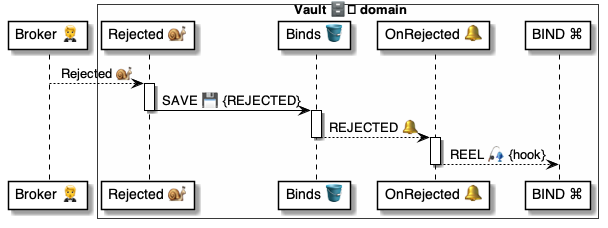
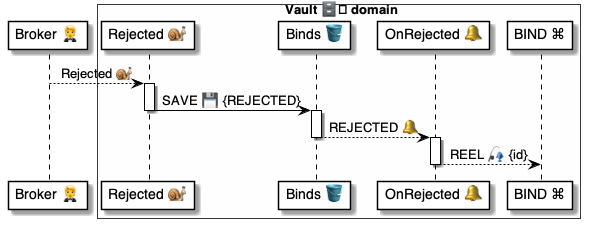
.

diff --git a/4 ⚙ Solution/37 Scripts 📃/📃 Commands ⌘/⌘ for methods 🤵/BIND 🔗/🔗 BIND 📃 script.md b/4 ⚙ Solution/37 Scripts 📃/📃 Commands ⌘/⌘ for methods 🤵/BIND 🔗/🔗 BIND 📃 script.md
@@ -3,6 +3,13 @@
 > Purpose
 * [Script 📃](<../../../../35 💬 Chats/Scripts 📃/Script 📃.md>) that implements the [`BIND`](<🔗 BIND ⌘ cmd.md>) command.
 
+<br/>
+
+## Diagram
+
+![alt text](<🔗 BIND ⚙ uml.png>)
+
+<br/>
 
 ## How to call
 
@@ -13,7 +20,9 @@
       - schema-1
       - schema-n
 ```
+Uses: [`RUN`](<../../⌘ for control ▶/RUN 🏃/🏃 RUN ⌘ cmd.md>)
 
+<br/>
 
 ## Script
 
@@ -25,35 +34,27 @@
     AllOf: Schemas, User
     Lists: Schemas
 
-# Save the callback hook
-- SAVE|Talker.Hooks >> hook:
-    Hook: .UUID
+# Save the bind
+- SAVE|Vault.Binds >> $bind:
     Broker: $.Chat.Broker
     Chat: $.Chat.ID
-    PublicKey: $.Chat.PublicKey
     Schemas: $Schemas
     User: $User
 
+# Wait for the bound schema
+- WAIT >> $schema:
+    Hook: $bind.ID
 
-
-# Wait for the shared data
-#- WAIT >> $shared:
-#    Hook: $hook.Hook
-
-# Return the data
-#- RETURN:
-#    $shared
+# Return the schema
+- RETURN:
+    $schema
 ```
 
-<!-- TODO: finish the code -->
-
-> Followed by the [`Bound@Vault` 🅰 method](<../../../../41 🎭 Domain Roles/Vaults 🗄/🗄🅰 Vault methods/Bound 🤵🐌🗄/🗄 Bound 🐌 msg.md>) 
 
 
 |Uses||
 |-|-
-| [Commands ⌘](<../../../../35 💬 Chats/Scripts 📃/Command ⌘.md>) | [`ASSERT`](<../../⌘ for holders 🧠/ASSERT 🚦/🚦 ASSERT ⌘ cmd.md>) [`SAVE`](<../../⌘ for datasets 🪣/SAVE 💾/💾 SAVE ⌘ cmd.md>) [`SEND`](<../../⌘ for messages 📨/SEND 📬/📬 SEND ⌘ cmd.md>)
-| [Datasets 🪣](<../../../../30 🧩 Data/Datasets 🪣/🪣 Dataset.md>) | [`Hooks`](<../../../../35 💬 Chats/Talkers 😃/😃🪣 Talker tables/😃 Talker.Hooks 🪣 table.md>)
-| [Messages 📨](<../../../../30 🧩 Data/Messages 📨/📨 Message/📨 Message.md>) | [`Bindable@Broker`](<../../../../20 🧑🦰 UI/Brokers 🤵/🤵🅰 Broker methods/Binds 🔗 Bindable 🗄🐌🤵/🤵 Bindable 🐌 msg.md>)
+| [Commands ⌘](<../../../../35 💬 Chats/Scripts 📃/Command ⌘.md>) | [`ASSERT`](<../../⌘ for holders 🧠/ASSERT 🚦/🚦 ASSERT ⌘ cmd.md>) [`RETURN`](<../../⌘ for control ▶/RETURN ⤴/⤴ RETURN ⌘ cmd.md>) [`SAVE`](<../../⌘ for datasets 🪣/SAVE 💾/💾 SAVE ⌘ cmd.md>) [`WAIT`](<../../⌘ for async/WAIT 🧘/🧘 WAIT ⌘ cmd.md>)
+| [Datasets 🪣](<../../../../30 🧩 Data/Datasets 🪣/🪣 Dataset.md>) | [`Vault.Binds` 🪣 table](<../../../../41 🎭 Domain Roles/Vaults 🗄/🗄🪣 Vault tables/Binds 🔗 table/🪣 Binds/🗄 Vault.Binds 🪣 table.md>)
 | [Holders 🧠](<../../../../35 💬 Chats/Scripts 📃/Holder 🧠.md>) | [`$.Chat`](<../../../📃 Holders 🧠/🧠 System holders/$.Chat 💬/💬 $.Chat 🧠 holder.md>)
 |

diff --git a/4 ⚙ Solution/41 🎭 Domain Roles/Vaults 🗄/🗄🪣 Vault tables/Binds 🔗 table/🪣🔔 3 Bound/🗄 OnBindBound 📃 handler.md b/4 ⚙ Solution/41 🎭 Domain Roles/Vaults 🗄/🗄🪣 Vault tables/Binds 🔗 table/🪣🔔 3 Bound/🗄 OnBindBound 📃 handler.md
@@ -1,23 +1,24 @@
-# 🗄 OnBindRejected 📃 handler
+# 🗄 OnBindBound 📃 handler
 
 > Purpose
-* [Script 📃](<../../../../../35 💬 Chats/Scripts 📃/Script 📃.md>) that reacts to the [`Rejected@Vault` 🅰 method](<../../../🗄🅰 Vault methods/Rejected 🤵🐌🗄/🗄 Rejected 🐌 msg.md>).
+* [Script 📃](<../../../../../35 💬 Chats/Scripts 📃/Script 📃.md>) that reacts to the [`Bound@Vault` 🅰 method](<../../../🗄🅰 Vault methods/Bound 🤵🐌🗄/🗄 Bound 🐌 msg.md>).
  
 <br/>
 
 ## Diagram
 
-![alt text](<🗄 OnBindRejected ⚙ uml.png>)
+![alt text](<🗄 OnBindBound ⚙ uml.png>)
 
 <br/>
 
 ## Script
 
 ```yaml
-📃 OnBindRejected:
+📃 OnBindBound:
 
 # Return the call
-- REEL|$Bind.ID
+- REEL|$Bind.ID:
+    Bound: $Bind.Bound
 ```
 
 Uses||
